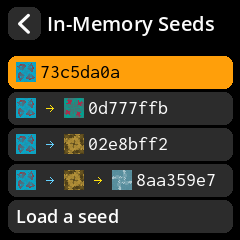
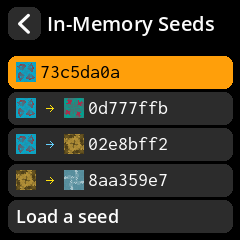
Limit wallet LifeHash lineages to two identities

Changed region(s): [[0.2625, 0.7, 0.9042, 0.8167], [0.0583, 0.7, 0.175, 0.8167], [0.2042, 0.7292, 0.2333, 0.7583]]

diff --git a/tests/test_flows_lifehash.py b/tests/test_flows_lifehash.py
@@ -241,9 +241,10 @@ class TestSeedOptionsHeader(BaseTest):
         ("b4e3f5ed", None, "47c88c48"),
         ("b4e3f5ed", "47c88c48", "0d777ffb"),
         (None, None, "47c88c48"),
+        (None, "47c88c48", "0d777ffb"),
         ("deadbeef", "deadbeef", "deadbeef"),
     ])
-    def test_native_child_header_renders_every_role_without_overlapping_back_or_xfp(
+    def test_native_child_header_limits_relationship_to_two_without_overlapping_back_or_xfp(
             self, parent, without, current, monkeypatch):
         from unittest.mock import MagicMock
 
@@ -279,8 +280,11 @@ class TestSeedOptionsHeader(BaseTest):
                     visit(child[1] if isinstance(child, tuple) else child)
 
         visit(screen.top_nav.title)
-        expected_fingerprints = ([parent] if parent else []) + ([without] if without else []) + [current]
-        expected_colors = ([GUIConstants.BIP85_COLOR] if parent else []) + ([GUIConstants.PASSPHRASE_COLOR] if without else [])
+        source = without or parent
+        expected_fingerprints = ([source] if source else []) + [current]
+        expected_colors = ([GUIConstants.PASSPHRASE_COLOR if without else GUIConstants.BIP85_COLOR]
+                           if source else [])
+        assert len(icons) <= 2
         assert [icon.fingerprint for icon in icons] == expected_fingerprints
         assert [arrow.color for arrow in arrows] == expected_colors
         assert [label.text for label in labels] == [current]
@@ -294,6 +298,41 @@ class TestSeedOptionsHeader(BaseTest):
         for arrow in arrows:
             assert renderer.canvas.getpixel((arrow.screen_x + 10, arrow.screen_y + 10)) == ImageColor.getrgb(arrow.color)
         label = labels[0]
+        assert label.font_size == 20
         assert icons[-1].screen_x + icons[-1].width < label.screen_x
         assert label.screen_x + label.text_width <= right_edge
         assert screen.top_nav.title.content_width <= screen.top_nav.title.width
+
+
+class TestLifeHashLineageLimit(BaseTest):
+    @pytest.mark.parametrize("fingerprints", [
+        ("b4e3f5ed", "47c88c48", "0d777ffb"),
+        ("73c5da0a", "b4e3f5ed", "47c88c48", "0d777ffb"),
+        ("deadbeef", "deadbeef", "deadbeef"),
+    ])
+    def test_longer_lineage_keeps_last_two_roles_and_their_arrow(self, fingerprints, monkeypatch):
+        from PIL import Image, ImageDraw
+        from seedsigner.gui.components import (FingerprintArrow, FingerprintHeader,
+                                               GUIConstants, LifeHashIcon, LifeHashSequence)
+
+        from unittest.mock import MagicMock
+        from seedsigner.gui.renderer import Renderer
+
+        canvas = Image.new("RGB", (240, 240), GUIConstants.BACKGROUND_COLOR)
+        renderer = MagicMock(canvas_width=240, canvas_height=240, canvas=canvas)
+        monkeypatch.setattr(Renderer, "get_instance", lambda: renderer)
+        colors = (GUIConstants.BIP85_COLOR,) * (len(fingerprints) - 2) + (GUIConstants.PASSPHRASE_COLOR,)
+        header = FingerprintHeader(
+            canvas=canvas, image_draw=ImageDraw.Draw(canvas), width=184, screen_x=48,
+            fingerprint=fingerprints[-1], fingerprints=fingerprints, arrow_colors=colors,
+        )
+        header.render()
+        sequence = header.components[0]
+        assert isinstance(sequence, LifeHashSequence)
+        icons = [component for _, component in sequence.components if isinstance(component, LifeHashIcon)]
+        arrows = [component for _, component in sequence.components if isinstance(component, FingerprintArrow)]
+        assert [icon.fingerprint for icon in icons] == list(fingerprints[-2:])
+        assert [arrow.color for arrow in arrows] == [GUIConstants.PASSPHRASE_COLOR]
+        assert header.components[-1].text == fingerprints[-1]
+        assert header.components[-1].font_size == 20
+        assert header.content_width <= header.width

diff --git a/tests/test_flows_bip85.py b/tests/test_flows_bip85.py
@@ -547,21 +547,21 @@ class TestBIP85Flows(FlowTest):
             (plain.get_fingerprint(),),
             (plain.get_fingerprint(), parent.get_fingerprint()),
             (parent.get_fingerprint(), child.get_fingerprint()),
-            (parent.get_fingerprint(), child.get_fingerprint(), extended_child.get_fingerprint()),
+            (child.get_fingerprint(), extended_child.get_fingerprint()),
             (unknown_parent_child.get_fingerprint(),),
         ]
         expected_edge_colors = [
             (),
             (GUIConstants.PASSPHRASE_COLOR,),
             (GUIConstants.BIP85_COLOR,),
-            (GUIConstants.BIP85_COLOR, GUIConstants.PASSPHRASE_COLOR),
+            (GUIConstants.PASSPHRASE_COLOR,),
             (),
         ]
         expected_selected_edge_colors = [
             (),
             (GUIConstants.PASSPHRASE_COLOR_SELECTED,),
             (GUIConstants.BIP85_COLOR_SELECTED,),
-            (GUIConstants.BIP85_COLOR_SELECTED, GUIConstants.PASSPHRASE_COLOR_SELECTED),
+            (GUIConstants.PASSPHRASE_COLOR_SELECTED,),
             (),
         ]
 
@@ -636,7 +636,7 @@ class TestBIP85Flows(FlowTest):
         assert self.controller.back_stack[-1].view_args["seed"] is child
 
 
-    def test_in_memory_relationship_keeps_each_role_when_fingerprints_collide(self, monkeypatch):
+    def test_in_memory_relationship_keeps_two_roles_when_fingerprints_collide(self, monkeypatch):
         child = Seed(CHILDREN[0][3].split(), "child extension", bip85_parent_fingerprint="deadbeef")
         self.controller.storage.seeds = [child]
         monkeypatch.setattr(Seed, "get_fingerprint", lambda self, *args, **kwargs: "deadbeef")
@@ -646,11 +646,10 @@ class TestBIP85Flows(FlowTest):
 
             def inspect_screen(*args, **kwargs):
                 row = kwargs["button_data"][0]
-                assert row.lifehash_fingerprints == ("deadbeef", "deadbeef", "deadbeef")
+                assert row.lifehash_fingerprints == ("deadbeef", "deadbeef")
                 assert row.button_label == "deadbeef"
-                assert row.lifehash_arrow_colors == (GUIConstants.BIP85_COLOR, GUIConstants.PASSPHRASE_COLOR)
-                assert row.selected_lifehash_arrow_colors == (
-                    GUIConstants.BIP85_COLOR_SELECTED, GUIConstants.PASSPHRASE_COLOR_SELECTED)
+                assert row.lifehash_arrow_colors == (GUIConstants.PASSPHRASE_COLOR,)
+                assert row.selected_lifehash_arrow_colors == (GUIConstants.PASSPHRASE_COLOR_SELECTED,)
                 return run_screen(*args, **kwargs)
 
             view.run_screen = inspect_screen

diff --git a/src/seedsigner/gui/components.py b/src/seedsigner/gui/components.py
@@ -979,7 +979,7 @@ class FingerprintArrow(BaseComponent):
 
 @dataclass
 class LifeHashSequence(BaseComponent):
-    """A compact lineage of 20px LifeHashes connected by the shared arrows."""
+    """At most two 20px LifeHashes showing the final relationship in a lineage."""
     fingerprints: Tuple[str, ...] = None
     arrow_color: str = GUIConstants.BODY_FONT_COLOR
     arrow_colors: Tuple[str, ...] = None
@@ -993,6 +993,10 @@ class LifeHashSequence(BaseComponent):
             raise ValueError("A LifeHash sequence requires at least one fingerprint")
         if self.arrow_colors is not None and len(self.arrow_colors) != len(self.fingerprints) - 1:
             raise ValueError("A LifeHash sequence requires one color per arrow")
+        # Keep the immediate source and destination, with their connecting color.
+        self.fingerprints = self.fingerprints[-2:]
+        if self.arrow_colors is not None:
+            self.arrow_colors = self.arrow_colors[-1:]
         self.height = 20
         self.width = len(self.fingerprints) * 20 + (len(self.fingerprints) - 1) * FingerprintArrow.WIDTH
         self.components = []
@@ -1072,9 +1076,7 @@ class FingerprintHeader(BaseComponent):
         self.height = 20
         self.width = self.width if self.width is not None else self.canvas_width - self.screen_x
         if self.fingerprints:
-            # A parent's derivation and the child's passphrase need three tiles.
-            # Use a smaller full XFP so the chain still fits beside Back at 240px.
-            self.font_size = 16 if len(self.fingerprints) > 2 else 20
+            self.font_size = 20
             font = Fonts.get_font(GUIConstants.FIXED_WIDTH_FONT_NAME, self.font_size)
             text_width = math.ceil(font.getlength(self.fingerprint))
             sequence = LifeHashSequence(

diff --git a/src/seedsigner/views/seed_views.py b/src/seedsigner/views/seed_views.py
@@ -35,14 +35,15 @@ class SeedsMenuView(View):
             fingerprints = []
             arrow_colors = []
             selected_arrow_colors = []
-            if seed.bip85_parent_fingerprint is not None:
-                fingerprints.append(seed.bip85_parent_fingerprint)
-                arrow_colors.append(GUIConstants.BIP85_COLOR)
-                selected_arrow_colors.append(GUIConstants.BIP85_COLOR_SELECTED)
+            # Display only the immediate relationship, even for a passphrased child.
             if seed.has_passphrase:
                 fingerprints.append(seed.get_fingerprint_without_passphrase(network))
                 arrow_colors.append(GUIConstants.PASSPHRASE_COLOR)
                 selected_arrow_colors.append(GUIConstants.PASSPHRASE_COLOR_SELECTED)
+            elif seed.bip85_parent_fingerprint is not None:
+                fingerprints.append(seed.bip85_parent_fingerprint)
+                arrow_colors.append(GUIConstants.BIP85_COLOR)
+                selected_arrow_colors.append(GUIConstants.BIP85_COLOR_SELECTED)
             fingerprints.append(fingerprint)
             self.seeds.append({
                 "fingerprint": fingerprint,

diff --git a/src/seedsigner/gui/screens/seed_screens.py b/src/seedsigner/gui/screens/seed_screens.py
@@ -453,13 +453,9 @@ class SeedOptionsScreen(ButtonListScreen):
         self.top_nav_lifehash_fingerprint = self.fingerprint
         self.top_nav_lifehash_fingerprint_source = self.fingerprint_without
         self.top_nav_lifehash_arrow_color = GUIConstants.PASSPHRASE_COLOR
-        if self.fingerprint_parent:
-            self.top_nav_lifehash_fingerprints = (self.fingerprint_parent,)
-            self.top_nav_lifehash_arrow_colors = (GUIConstants.BIP85_COLOR,)
-            if self.fingerprint_without:
-                self.top_nav_lifehash_fingerprints += (self.fingerprint_without,)
-                self.top_nav_lifehash_arrow_colors += (GUIConstants.PASSPHRASE_COLOR,)
-            self.top_nav_lifehash_fingerprints += (self.fingerprint,)
+        if self.fingerprint_parent and not self.fingerprint_without:
+            self.top_nav_lifehash_fingerprint_source = self.fingerprint_parent
+            self.top_nav_lifehash_arrow_color = GUIConstants.BIP85_COLOR
         self.top_nav_icon_name = SeedSignerIconConstants.FINGERPRINT
         self.top_nav_icon_color = GUIConstants.INFO_COLOR
         self.title = self.fingerprint

diff --git a/docs/lifehash.md b/docs/lifehash.md
@@ -57,19 +57,23 @@ its direct, Cancel-first confirmation and shows only the destination without
 a passphrase. These display identities do not participate in storage
 replacement or duplicate detection.
 
-The loaded seed's main menu uses the same known relationships in its compact
-header. An ordinary seed has one LifeHash, or its unpassphrased LifeHash →
-current LifeHash when it has a passphrase. A known BIP-85 child shows its actual
-deriving parent's snapshot → child with a blue arrow. A passphrased child
-shows parent → child without a passphrase → current child, with a blue first
-arrow and yellow second arrow. The parent snapshot includes the passphrase
-used for derivation; an absent snapshot never invents a parent step.
+Each relationship display contains at most two LifeHashes: the immediate
+source and destination for the relationship being shown. The loaded seed's
+main menu prioritizes the current passphrase relationship. Any seed with a
+passphrase, including a BIP-85 child, shows its own wallet without a passphrase
+→ current wallet with a yellow arrow. Otherwise, a known BIP-85 child shows
+its actual deriving parent's snapshot → child with a blue arrow. A plain seed
+or a child without a known parent snapshot shows only its current LifeHash.
+
+The parent snapshot includes any passphrase used for derivation. It remains
+stored when a child has its own passphrase, even though the header displays
+only the child's passphrase relationship. Removing that passphrase restores
+the parent → child display. An absent snapshot never invents a parent step.
 
 Only the current hexadecimal fingerprint is written. All header LifeHashes
-remain 20px. One- and two-tile headers use 20px fixed-width XFP text; the
-three-tile header uses 16px text to retain the full eight digits within the
-184px space beside Back on the 240px display. This header does not change
-seed metadata, derivation, or selection.
+and fixed-width XFP text remain 20px, with the full eight digits fitting beside
+Back on the 240px display. This header does not change seed metadata,
+derivation, or selection.
 
 The menu uses checks to show the selected seed's state. **BIP-85 child seed**
 has a blue check when this seed is a known derived child; **BIP-39 Passphrase**
@@ -78,23 +82,24 @@ this seed currently has a passphrase. A parent is not marked
 as a child merely because it has derived one. The existing settings still
 control whether each menu action is shown.
 
-The **In-Memory Seeds** list shows the selected wallet's derivation steps with
-LifeHashes and right-pointing arrows. Only the final, current fingerprint is
-written as hexadecimal text:
+The **In-Memory Seeds** list uses the same limit and passphrase priority as
+the loaded-seed header. Each row shows one LifeHash or one source → destination
+pair. Only the current fingerprint is written as hexadecimal text:
 
 | Loaded seed | LifeHash sequence |
 | --- | --- |
 | Ordinary seed | Current wallet |
 | Ordinary seed with a passphrase | Without passphrase → current wallet |
 | Known BIP-85 child | Deriving parent → current child |
-| Known BIP-85 child with a passphrase | Deriving parent → child without passphrase → current child |
+| Known BIP-85 child with a passphrase | Child without passphrase → current child |
 
 Arrows use the same semantic colors as the menu checks: the shared
 passphrase yellow (`#FFE20E`) marks a passphrase step, while blue marks
-a BIP-85 parent-to-child derivation. A passphrased-child row therefore has a
-blue first arrow and a passphrase-colored second arrow. The convention also
-applies to passphrase review, the loaded-seed header, BIP-85 review, and the
-persistent child-word header. Labels, sequence positions, and hexadecimal
+a BIP-85 parent-to-child derivation. A passphrased-child row has one yellow
+arrow. The convention also applies to passphrase review, the loaded-seed
+header, BIP-85 review, and the persistent child-word header. BIP-85 review and
+child-word pages always show the actual deriving parent → child, including
+when that parent is itself a passphrased child. Labels, sequence positions, and hexadecimal
 fingerprints remain available; LifeHash pixels are unchanged. Unrelated
 success and verification checks retain their existing green color.
 Selected rows keep these exact colors. Compact black backings behind the
@@ -109,14 +114,15 @@ from the configured arrow color. The coverage-mask path preserves the shared
 color while retaining antialiased edges; other text rendering is unchanged.
 
 Rows use 20px LifeHashes, 20px fixed-width fingerprint text, and 10px gaps
-on each side of an arrow. Derivation steps are retained even if two 32-bit
-fingerprints happen to be equal; matching XFPs do not prove matching wallets.
+on each side of an arrow. Both roles in a source → destination pair remain
+visible even if their 32-bit fingerprints happen to be equal; matching XFPs
+do not prove matching wallets.
 
 The parent image uses its fingerprint at child creation, including any
 passphrase used for derivation. Discarding or later editing the loaded parent
 does not change the child's recorded origin. If no parent fingerprint is
-known, the row omits that step. Choosing any row opens its final current
-wallet, not one of the preceding identities.
+known, a child without its own passphrase shows only its current LifeHash.
+Choosing any row opens its current wallet.
 
 Discarding a loaded seed returns to **In-Memory Seeds** with that entry removed.
 If no loaded seeds remain, it returns to the main menu. This applies equally to
@@ -365,23 +371,30 @@ scaling, independent returned images, and bounded public-data caching.
 The BIP-85 index-change flow tests cover both word
 counts, unchanged-index preservation, sibling replacement/separate loading,
 grandchild derivation with the child's passphrase, backup navigation, stale
-parent/source rejection, and duplicate selection. The complete non-screenshot
-suite and all 22 screenshot locales were validated. Screenshot generation
-produced 3,520 PNGs, with 198 supplemental captures and 50 native gallery
-captures. Native captures and the live browser verified the actual
-passphrased parent `0d777ffb` → child `cca51e4b` with a blue arrow, plus the
-yellow step to the child's own passphrase wallet `4be9bd39`. Only the terminal
-XFP is printed, without overlapping Back. The live browser
-confirmed **Continue** first and selected by default. Back from **Load Wallet**
+parent/source rejection, and duplicate selection.
+
+For the current two-LifeHash presentation, all 584 non-screenshot tests passed
+and the preview generated 50 native gallery PNGs. The regression tests cover
+passphrase priority in headers and in-memory rows, the two-role limit even for
+longer input sequences, equal-fingerprint roles, arrow colors, and the full 20px
+XFP fitting beside Back.
+
+Before the two-LifeHash display limit was introduced, the complete
+non-screenshot suite and all 22 screenshot locales were validated. Screenshot
+generation produced 3,520 PNGs, with 198 supplemental captures and 50 native
+gallery captures. That earlier revision's native captures and live browser
+verified the passphrased parent and child relationships, full current XFP
+visibility, and **Continue** first and selected by default. Back from **Load Wallet**
 restored **Change Wallet** with the demonstration passphrase `aaa` intact and
 Continue selected; storage still contained only the original `73c5da0a` wallet. The live preview confirmed
 matching yellow passphrase text and symbols, then **Continue → Load Wallet**
 with **Replace current** selected by default. Choosing **Load separately** for
 the demonstration passphrase `aaa` retained `73c5da0a` and loaded `382af2cb`;
 both appeared in **In-Memory Seeds** with the yellow relationship arrow.
-Normal and selected mixed-color rows and the child menu were also checked.
-In-memory relationship rows were checked across all 22 locales, including
-the selected three-LifeHash row.
+Normal and selected relationship rows and the child menu were also checked
+in that revision, with in-memory rows checked across all 22 locales. These
+historical checks describe the earlier layout; the current two-LifeHash
+presentation has not been rerun across all 22 locales.
 
 Cross-implementation comparisons must use the same four input bytes, v2,
 module size 1, no alpha, and unscaled row-major RGB data.

diff --git a/tests/README.md b/tests/README.md
@@ -124,17 +124,25 @@ their colors remain visible on the selected row. Both checks appear for a child
 with a passphrase.
 
 The **In-Memory Seeds: wallet relationships** scenario shows a plain seed, a
-passphrased seed, a BIP-85 child and a passphrased child together. Their rows use
-20px LifeHashes connected by arrows and show only the final wallet's full
-fingerprint. A passphrased child shows its deriving parent, the child without a
-passphrase and the current wallet. The parent fingerprint is retained as display
-metadata; no parent secret is kept inside the child.
+passphrased seed, a BIP-85 child and a passphrased child together. Rows and loaded
+seed-menu headers show at most two 20px LifeHashes, plus only the current wallet's
+full fingerprint in 20px type. With a passphrase, the pair is the selected seed's
+wallet without a passphrase → current wallet, connected by a yellow arrow. This
+applies to a BIP-85 child's own passphrase as well. Otherwise, a known child shows
+its actual deriving parent → child with a blue arrow. A plain seed or child
+without a known parent snapshot shows only its current LifeHash.
 
-A loaded child's seed-menu header retains its actual deriving-parent LifeHash,
-connected to the child by a blue arrow. With its own passphrase, the child header
-adds a yellow arrow and a third LifeHash; the final fingerprint uses 16px type so
-the entire chain fits beside Back. The two additional passphrased-parent demo
-scenarios exercise these headers using the actual child-loading operation.
+The parent fingerprint remains stored when the child's passphrase relationship
+is displayed; no parent secret is kept inside the child. Removing the child's
+passphrase restores the saved parent → child display. Equal fingerprints still
+show both roles in the pair. The passphrased-parent demo scenarios exercise these
+headers using the actual child-loading operation. When deriving a grandchild,
+review and child-word pages show its immediate parent's actual wallet, including
+that parent's passphrase, → new child.
+
+The two-LifeHash presentation passed all 584 non-screenshot tests, and the
+preview generated 50 native gallery PNGs. Earlier all-locale screenshot results
+in `docs/lifehash.md` refer to the previous layout.
 
 On a device, **Settings → Advanced → BIP-39 passphrase** controls passphrase
 support. **Enabled** or **Required** exposes **BIP-39 Passphrase** near the bottom
